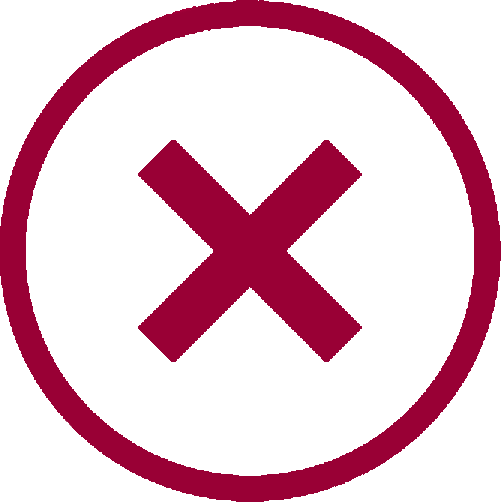
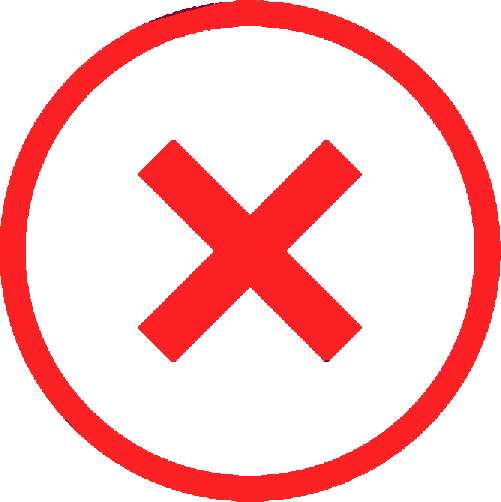
Small change

Changed region(s): [[0.0, 0.0, 1.0, 1.0], [0.2695, 0.2689, 0.7186, 0.7171]]

diff --git a/frontend/src/components/feedback/feedback-send.jsx b/frontend/src/components/feedback/feedback-send.jsx
@@ -1,12 +1,12 @@
+import classNames from "classnames";
+import PropTypes from "prop-types";
 import React from "react";
-import Form from "../common/form";
-import { sendFeedback } from "../../services/feedbackService";
+import Loader from "react-loader-spinner";
 import checkmark from "../../assets/images/feedback/checkmark.png";
 import xmark from "../../assets/images/feedback/xmark.png";
+import { sendFeedback } from "../../services/feedbackService";
 import Utils from "../../utils";
-import classNames from "classnames";
-import Loader from "react-loader-spinner";
-import PropTypes from "prop-types";
+import Form from "../common/form";
 const { feedback } = Utils.string.PATHS;
 
 class FeedbackSend extends Form {

diff --git a/frontend/src/components/feedback/feedback.jsx b/frontend/src/components/feedback/feedback.jsx
@@ -1,9 +1,9 @@
-import React from "react";
-import Form from "../common/form";
 import Joi from "joi-browser";
-import ConfirmationModal from "../modals/confirmation-modal";
+import PropTypes from "prop-types";
+import React from "react";
 import Utils from "../../utils";
-import PropTypes from 'prop-types';
+import Form from "../common/form";
+import ConfirmationModal from "../modals/confirmation-modal";
 
 const { feedbackSend } = Utils.string.PATHS;
 
@@ -89,4 +89,4 @@ export default Feedback;
 
 Feedback.propTypes = {
   location: PropTypes.object
-}
+};

diff --git a/frontend/src/styles/feedback/feedback-send.css b/frontend/src/styles/feedback/feedback-send.css
@@ -6,7 +6,7 @@
 }
 
 .form.feedback-card.feedback-send.error {
-  border-top: 6px solid #9e0022;
+  border-top: 6px solid #f34a43;
 }
 
 .form.feedback-card.feedback-send {
@@ -48,7 +48,6 @@
     grid-column: 1;
   }
 }
-
 
 @media only screen and (min-width: 600px) {
   .feedback-container.send {

diff --git a/frontend/src/components/modals/confirmation-modal.jsx b/frontend/src/components/modals/confirmation-modal.jsx
@@ -1,7 +1,7 @@
-import { Modal } from "react-bootstrap";
+import PropTypes from "prop-types";
 import React from "react";
+import { Modal } from "react-bootstrap";
 import Form from "../common/form";
-import PropTypes from 'prop-types';
 
 class ConfirmationModal extends Form {
   state = {};

diff --git a/frontend/src/components/feedback/feedback-confirm.jsx b/frontend/src/components/feedback/feedback-confirm.jsx
@@ -1,6 +1,6 @@
 import React from "react";
-import Form from "../common/form";
 import Utils from "../../utils";
+import Form from "../common/form";
 
 const { feedback, feedbackSend } = Utils.string.PATHS;
 
